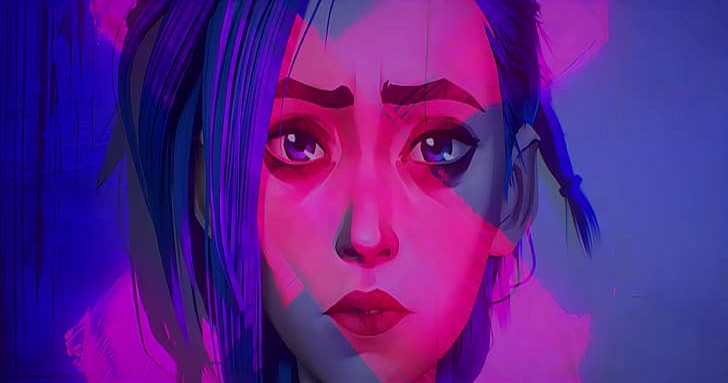
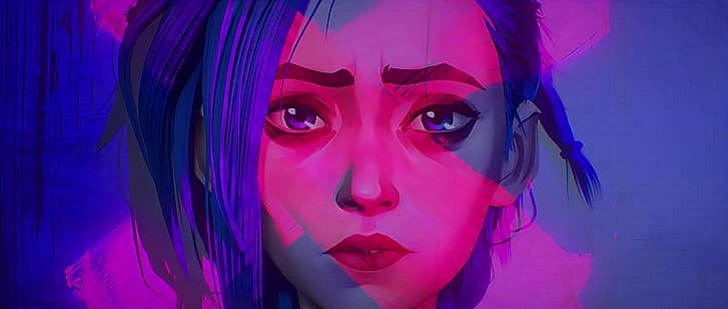
make it fully responsive

diff --git a/script.js b/script.js
@@ -73,34 +73,34 @@ function updateNavButtons() {
 
 function updateImage() {
   if (currentQuestion === 0) {
-    document.querySelector('.app-img').innerHTML = '<img src="img/jinx-2.jpg" alt="mountain" class="image-carousel">'
+    document.querySelector('.app-image').innerHTML = '<img src="img/jinx-2.jpg" alt="mountain" class="image">'
   } else if (currentQuestion === 1) {
-    document.querySelector('.app-img').innerHTML = '<img src="img/viktor-and-jayce.jpg" alt="mountain" class="image-carousel">'
+    document.querySelector('.app-image').innerHTML = '<img src="img/viktor-and-jayce.jpg" alt="mountain" class="image">'
   } else if (currentQuestion === 2) {
-    document.querySelector('.app-img').innerHTML = '<img src="img/isha-1.jpg" alt="mountain" class="image-carousel">'
+    document.querySelector('.app-image').innerHTML = '<img src="img/isha-1.jpg" alt="mountain" class="image">'
   } else if (currentQuestion === 3) {
-    document.querySelector('.app-img').innerHTML = '<img src="img/caitlyn.jpg" alt="mountain" class="image-carousel">'
+    document.querySelector('.app-image').innerHTML = '<img src="img/caitlyn.jpg" alt="mountain" class="image">'
   } else if (currentQuestion === 4) {
-    document.querySelector('.app-img').innerHTML = '<img src="img/firelight-hideout.jpg" alt="mountain" class="image-carousel">'
+    document.querySelector('.app-image').innerHTML = '<img src="img/firelight-hideout.jpg" alt="mountain" class="image">'
   } else if (currentQuestion === 5) {
-    document.querySelector('.app-img').innerHTML = '<img src="img/silco-and-jinx.jpg" alt="mountain" class="image-carousel">'
+    document.querySelector('.app-image').innerHTML = '<img src="img/silco-and-jinx.jpg" alt="mountain" class="image">'
   } else if (currentQuestion === 6) {
-    document.querySelector('.app-img').innerHTML = '<img src="img/viktor-3.jpg" alt="mountain" class="image-carousel">'
+    document.querySelector('.app-image').innerHTML = '<img src="img/viktor-3.jpg" alt="mountain" class="image">'
   } else if (currentQuestion === 7) {
-    document.querySelector('.app-img').innerHTML = '<img src="img/jinx-and-ekko-6.jpg" alt="mountain" class="image-carousel">'
+    document.querySelector('.app-image').innerHTML = '<img src="img/jinx-and-ekko-6.jpg" alt="mountain" class="image">'
   } else if (currentQuestion === 8) {
-    document.querySelector('.app-img').innerHTML = '<img src="img/sevika-and-jinx.jpg" alt="mountain" class="image-carousel">'
+    document.querySelector('.app-image').innerHTML = '<img src="img/sevika-and-jinx.jpg" alt="mountain" class="image">'
   } else if (currentQuestion === 9) {
-    document.querySelector('.app-img').innerHTML = '<img src="img/jinx-vs-vi.jpg" alt="mountain" class="image-carousel">'
+    document.querySelector('.app-image').innerHTML = '<img src="img/jinx-vs-vi.jpg" alt="mountain" class="image">'
   } else if (currentQuestion === 10) {
-    document.querySelector('.app-img').innerHTML = '<img src="img/jinx-and-ekko-4.jpg" alt="mountain" class="image-carousel">'
+    document.querySelector('.app-image').innerHTML = '<img src="img/jinx-and-ekko-4.jpg" alt="mountain" class="image">'
   } else if (currentQuestion === 11) {
-    document.querySelector('.app-img').innerHTML = '<img src="img/ekko.jpg" alt="mountain" class="image-carousel">'
+    document.querySelector('.app-image').innerHTML = '<img src="img/ekko.jpg" alt="mountain" class="image">'
   } else if (currentQuestion === 12) {
-    document.querySelector('.app-img').innerHTML = '<img src="img/powder.jpg" alt="mountain" class="image-carousel">'
+    document.querySelector('.app-image').innerHTML = '<img src="img/powder.jpg" alt="mountain" class="image">'
   } else if (currentQuestion === 13) {
-    document.querySelector('.app-img').innerHTML = '<img src="img/jinx-3.jpg" alt="mountain" class="image-carousel">'
+    document.querySelector('.app-image').innerHTML = '<img src="img/jinx-3.jpg" alt="mountain" class="image">'
   } else if (currentQuestion === 14) {
-    document.querySelector('.app-img').innerHTML = '<img src="img/viktor.jpg" alt="mountain" class="image-carousel">'
+    document.querySelector('.app-image').innerHTML = '<img src="img/viktor.jpg" alt="mountain" class="image">'
   }
 }

diff --git a/style.css b/style.css
@@ -7,7 +7,7 @@ html {
     padding: 0;
     font-family: 'Poppins', sans-serif;
     box-sizing: border-box;
-    font-size: 16px;
+    font-size: 13px;
 }
 
 @media (min-width: 481px) {
@@ -45,7 +45,8 @@ body {
     overflow: auto;
 }
 
-.app-welcome {
+.app {
+    margin: 2rem;
     background: #e6e6e6;
     border-radius: 1.5rem;
     padding: 2.5rem;
@@ -65,73 +66,38 @@ body {
     flex-direction: column;
 }
 
-.app-content {
-    margin: 0.3125rem;
-}
-
-.app-img {
+.image {
     width: 100%;
-    max-width: 43.75rem;
-    display: flex;
-    justify-content: center;
-    align-items: center;
-}
-
-.image-carousel {
-    width: 100%;
-    height: 35vh;
-    max-height: 40vh;
-    object-fit: cover;
+    height: 15.625rem;
     border-radius: 0.3125rem;
+    object-fit: cover;
 }
 
-.quiz {
-    width: 100%;
-    display: flex;
-    align-items: center;
-    flex-direction: column;
-    padding: 0 0 1.25rem 0;
-}
-.questions {
-    width: 100%;
-    height: 3.75rem;
-    display: flex;
-    flex-direction: column;
-    justify-content: center;
-}
-
-.question,
-.note-heading { 
+.question { 
     color: var(--dark--blue);
     font-weight: 600;
-    font-size: 1.5625rem;
+    font-size: 1.8rem;
+    text-align: center;
+    line-height: 1.3;
 }
 
-.options {
-    display: flex;
-    flex-direction: column;
-    gap: 0.625rem;
-    font-size: 1.125rem;
-    width: 100%;
-    height: 60%;
-}
 
-.btn {
-    color: var(--dark--blue);
-    font-weight: 500;
+.option {
     background-color: transparent;
-    width: 100%;
-    border: 0.0625rem solid #222;
+    border: 0.0625rem solid var(--dark--blue);
+    border-radius: 0.5rem;
     padding: 0.625rem;
-    margin: 0.625rem 0;
-    text-align: left;
-    border-radius: 0.25rem;
+    margin-bottom: 0.75rem;
+    color: var(--dark--blue);
+    font-size: 1rem;
     cursor: pointer;
     transition: all .3s;
+    width: 100%;
+    text-align: left;
 }
 
-.btn:hover,
-.btn:focus {
+.option:hover,
+.option:focus {
     background-color: var(--dark--blue);
     color: #d3d3d3;
 }
@@ -139,7 +105,7 @@ body {
 .navigation {
     display: flex;
     justify-content: space-between;
-    gap: 3rem;
+    gap: 5rem;
     margin-top: 0.4375rem;
 }
 
@@ -155,6 +121,13 @@ body {
     cursor: pointer;
 }
 
+.start-btn-link {
+    width: 100%;
+    display: flex;
+    text-decoration: none;
+    flex-direction: column;
+    align-items: center;
+}
 .start-btn {
     font-size: 1.4rem;
     padding: 1rem 0.75rem;
@@ -180,11 +153,6 @@ body {
     font-size: 2.2rem;
 }
 
-a {
-    text-align: center;
-    text-decoration: none;
-}
-
 .note-container {
     padding: 1.5rem;
     background: rgb(255 255 255 / 27%);
@@ -196,14 +164,13 @@ a {
     font-size: 1.6rem;
     text-align: center;
     margin-bottom: 1rem;
+    color: var(--dark--blue);
 } 
 
 .note-list {
     line-height: 1.6;
-    padding-left: 1.25rem;
     position: relative;
     margin-bottom: 0.75rem;
-    letter-spacing: .0.3125rem;
     font-size: 1.1rem;
     color: #011a3f;
 }

diff --git a/questions.html b/questions.html
@@ -7,32 +7,24 @@
 	<title>Arcane Personality Quiz</title>
 </head>
 <body>
-	<div class="app-welcome">
-		<div class="app-content">
-			<div class="app-img">
-			<img src="img/jinx-2.jpg" alt="arcane picture" class="image-carousel">
+	<div class="app">
+		<div class="app-image">
+			<img src="img/jinx-2.jpg" alt="arcane picture" class="image">
 		</div>
 
-		<div class="quiz">
-			<div class="questions">
-				<h1 class="question js-question">Question</h1>
-			</div>
+		<h1 class="question js-question">Question</h1>
 
-			<div class="divider">&nbsp;</div>
+		<div class="divider">&nbsp;</div>
 
-			<div class="options">
-				<button class="btn js-option-1">Answer 1</button>
-				<button class="btn js-option-2">Answer 2</button>
-				<button class="btn js-option-3">Answer 3</button>
-				<button class="btn js-option-4">Answer 4</button>
-			</div>
+		<button class="option js-option-1">Answer 1</button>
+		<button class="option js-option-2">Answer 2</button>
+		<button class="option js-option-3">Answer 3</button>
+		<button class="option js-option-4">Answer 4</button>
 
-			<div class="navigation">
-				<button id="previous-btn" class="quiz-btn js-previous-button hidden">Previous</button>
-				<button class="quiz-btn js-next-button">Next</button>
-				<a href="personality.html" class="js-submit-link hidden"><button class="quiz-btn js-submit-button">Submit</button></a>
-			</div>
-		</div>
+		<div class="navigation">
+			<button id="previous-btn" class="quiz-btn js-previous-button hidden">Previous</button>
+			<button class="quiz-btn js-next-button">Next</button>
+			<a href="personality.html" class="js-submit-link hidden"><button class="quiz-btn js-submit-button">Submit</button></a>
 		</div>
 	</div>
 

diff --git a/index.html b/index.html
@@ -7,22 +7,22 @@
   <title>Arcane Personality Test</title>
 </head>
 <body>
-  <div class="app-welcome">
+  <div class="app">
     <div class="container">  
       <div class="intro">
         <h1 class="intro-heading">Which Arcane Character matches Your Personality?</h1>
       </div>
-      <a href="questions.html"><button class="start-btn quiz-btn">Start Quiz</button></a>
+      <a href="questions.html" class="start-btn-link"><button class="start-btn quiz-btn">Start Quiz</button></a>
 
       <div class="divider">&nbsp;</div>
 
       <div class="note-container">
         <h2 class="note-heading">Note</h2>
         <div class="notes">
-          <li class="note-list">This personality quiz is not scientific, it is solely for fun</li>
-          <li class="note-list">Don't answer the questions based on how you would want to react but based on how you know you would actually react in that situation</li>
-          <li class="note-list">Follow me on X(formerly twitter) <a href="https://x.com/LaTechGirly?t=iJrQEX1-05k0LjYKF8wy4g" class="twitter-link">@laTechGirly</a></li>
-          <li class="note-list">Enjoy</li>
+          <li class="note-list">This personality quiz is not scientific, it is intended purely for fun</li>
+          <li class="note-list">You can use the arrow keys to move to the next or previous question</li>
+          <li class="note-list">Follow me on X(formerly twitter): <a href="https://x.com/LaTechGirly?t=iJrQEX1-05k0LjYKF8wy4g" class="twitter-link">@laTechGirly</a></li>
+          <li class="note-list">Enjoy!</li>
         </div>
       </div>
     </div>
